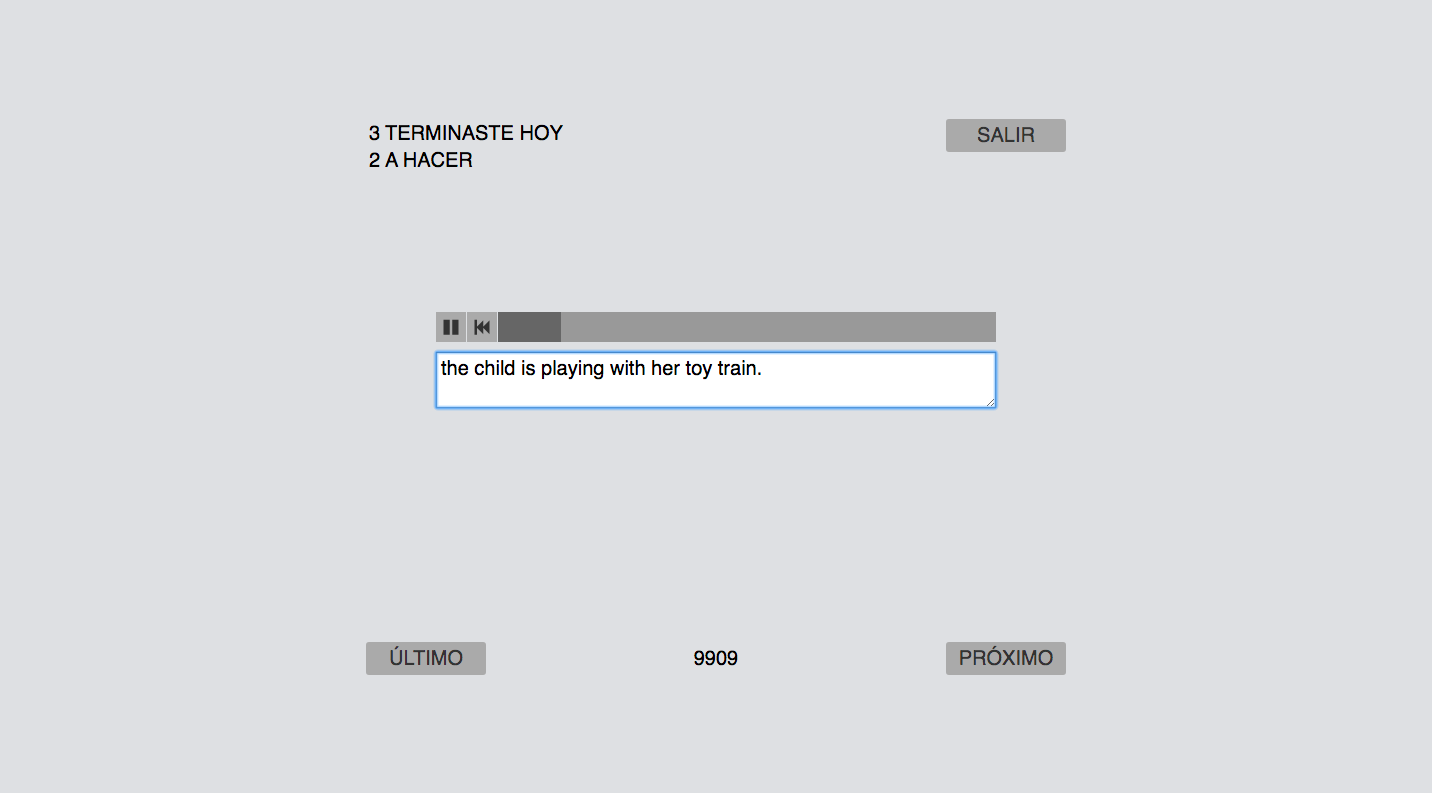
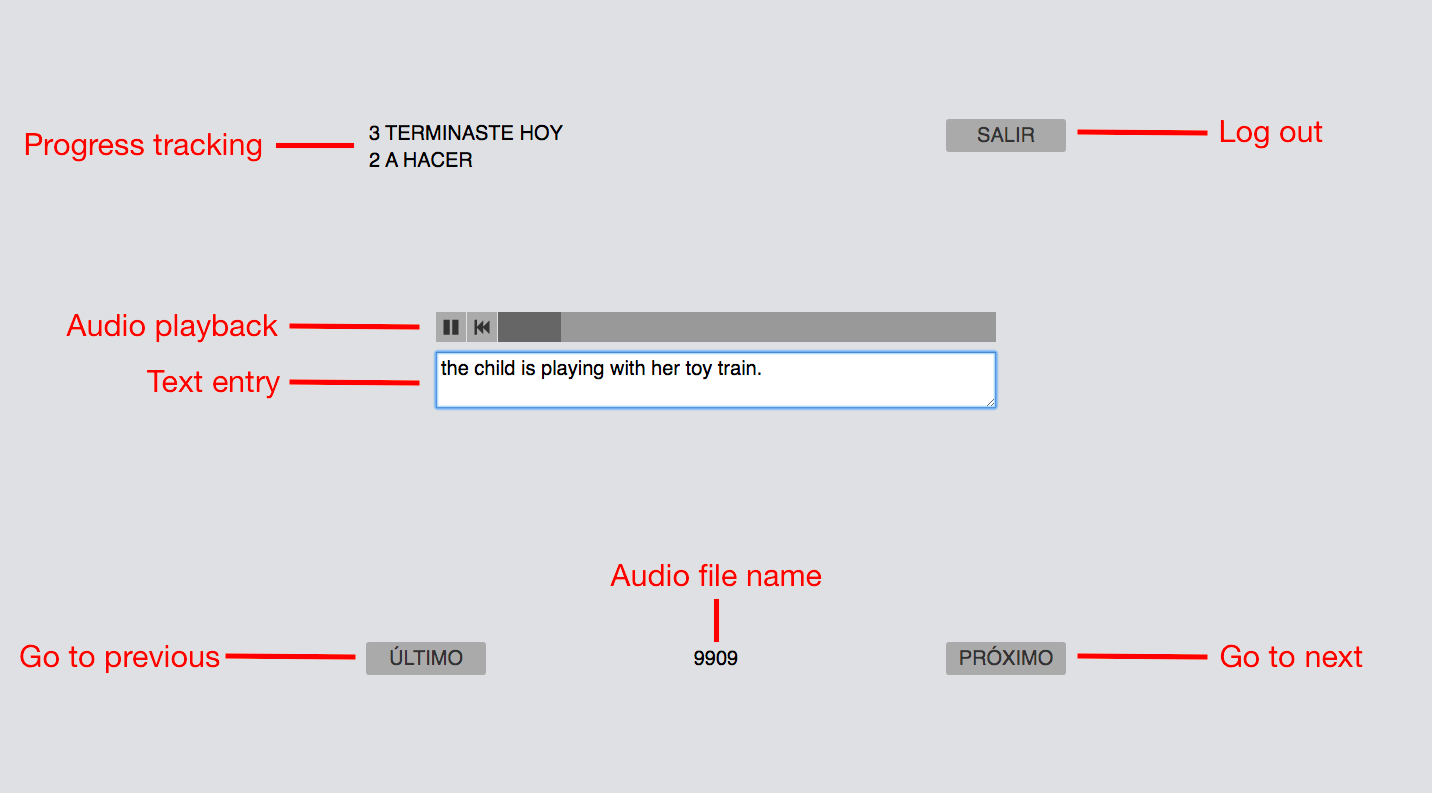
add screenshot to README

diff --git a/README.md b/README.md
@@ -18,6 +18,10 @@ Once a batch of annotation is initiated and the application is up and running (s
 
 _Note: This application was built for use with Spanish speakers, so the action labels and default user names are in Spanish (this can be easily changed; see [Language settings](#markdown-header-language-settings) below)._
 
+_Figure 1._ Screen shot of an annotation being made by `usuario2`.
+
+![Screen shot of an annotation being made by `usuario2`.](example-screenshot.png)
+
 ## Getting started
 
 **Install the annotate-app**
@@ -91,6 +95,9 @@ strings:
 - users
 - progress updates
 - empezar anotaciones, salir, próximo, último
+
+## Desktop use
+[to be filled in!]
 
 
 ## Authorship and conditions of use
